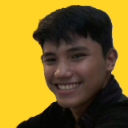
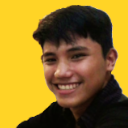
Relight portrait cutout for brighter, warmer facial lighting on yellow background

diff --git a/case-studies/clara-health.html b/case-studies/clara-health.html
@@ -11,8 +11,8 @@
     <meta property="og:description" content="From a health question to a human conversation. A patient and provider product prototype by Rechcel Toledo." />
     <meta property="og:url" content="https://phcodesage.github.io/case-studies/clara-health.html" />
     <link rel="canonical" href="https://phcodesage.github.io/case-studies/clara-health.html" />
-    <link rel="icon" type="image/png" sizes="512x512" href="../assets/favicon.png?v=20261018" />
-    <link rel="icon" type="image/png" sizes="32x32" href="../assets/favicon-32.png?v=20261018" />
+    <link rel="icon" type="image/png" sizes="512x512" href="../assets/favicon.png?v=20261018b" />
+    <link rel="icon" type="image/png" sizes="32x32" href="../assets/favicon-32.png?v=20261018b" />
     <link rel="stylesheet" href="https://fonts.googleapis.com/css2?family=DM+Sans:wght@400;500;600;700&family=Nunito:wght@600;700;800&display=swap" />
     <link rel="stylesheet" href="styles.css" />
     <script src="../site-analytics.js?v=20261012" defer></script>
@@ -21,7 +21,7 @@
   </head>
   <body data-analytics-project="clara-health">
     <div class="shell">
-      <header class="topbar"><a class="brand" href="../"><img class="brand-avatar" src="../assets/brand-avatar.png?v=20261018" alt="" width="30" height="30" /> PHCODESAGE</a><a class="back" href="../#clara-health">Back to selected work <span aria-hidden="true"><svg class="arrow-icon" data-direction="up-right" viewBox="0 0 24 24" aria-hidden="true" focusable="false"><path d="M7 17 17 7M7 7h10v10" /></svg></span></a></header>
+      <header class="topbar"><a class="brand" href="../"><img class="brand-avatar" src="../assets/brand-avatar.png?v=20261018b" alt="" width="30" height="30" /> PHCODESAGE</a><a class="back" href="../#clara-health">Back to selected work <span aria-hidden="true"><svg class="arrow-icon" data-direction="up-right" viewBox="0 0 24 24" aria-hidden="true" focusable="false"><path d="M7 17 17 7M7 7h10v10" /></svg></span></a></header>
       <main>
         <section class="hero">
           <p class="eyebrow">Clara Health / Product prototype / Patient &amp; provider workflows</p>

diff --git a/index.html b/index.html
@@ -9,9 +9,9 @@
     />
     <meta name="theme-color" content="#faf7f2" />
     <title>Rechcel Toledo — Software Developer, phcodesage</title>
-    <link rel="icon" type="image/png" sizes="512x512" href="assets/favicon.png?v=20261018" />
-    <link rel="icon" type="image/png" sizes="32x32" href="assets/favicon-32.png?v=20261018" />
-    <link rel="apple-touch-icon" href="assets/favicon.png?v=20261018" />
+    <link rel="icon" type="image/png" sizes="512x512" href="assets/favicon.png?v=20261018b" />
+    <link rel="icon" type="image/png" sizes="32x32" href="assets/favicon-32.png?v=20261018b" />
+    <link rel="apple-touch-icon" href="assets/favicon.png?v=20261018b" />
     <link rel="canonical" href="https://phcodesage.github.io/" />
     <meta property="og:type" content="website" />
     <meta property="og:title" content="Rechcel Toledo — Software Developer, phcodesage" />
@@ -81,7 +81,7 @@
       <div class="nav-bar">
         <a href="#top" class="wordmark" aria-label="phcodesage — Back to top">
           <span class="brand-mark" aria-hidden="true">
-            <img class="brand-avatar" src="assets/brand-avatar.png?v=20261018" alt="" width="34" height="34" />
+            <img class="brand-avatar" src="assets/brand-avatar.png?v=20261018b" alt="" width="34" height="34" />
           </span>
           <span class="wordmark-text">PHCODESAGE</span>
         </a>
@@ -166,7 +166,7 @@
                     <div class="hero-avatar-wrap">
                       <img
                         class="profile-photo"
-                        src="assets/favicon.png?v=20261018"
+                        src="assets/favicon.png?v=20261018b"
                         alt="Rechcel Toledo"
                         width="112"
                         height="112"
@@ -1046,7 +1046,7 @@
                 <img
                   id="testimonial-avatar"
                   class="testimonial-avatar"
-                  src="assets/favicon.png?v=20261018"
+                  src="assets/favicon.png?v=20261018b"
                   alt="Rechcel Toledo"
                   width="80"
                   height="80"

diff --git a/case-studies/tawaflick.html b/case-studies/tawaflick.html
@@ -11,8 +11,8 @@
     <meta property="og:description" content="Turning Philippine meme moments into looping GIFs and short videos, ready for the group chat." />
     <meta property="og:url" content="https://phcodesage.github.io/case-studies/tawaflick.html" />
     <link rel="canonical" href="https://phcodesage.github.io/case-studies/tawaflick.html" />
-    <link rel="icon" type="image/png" sizes="512x512" href="../assets/favicon.png?v=20261018" />
-    <link rel="icon" type="image/png" sizes="32x32" href="../assets/favicon-32.png?v=20261018" />
+    <link rel="icon" type="image/png" sizes="512x512" href="../assets/favicon.png?v=20261018b" />
+    <link rel="icon" type="image/png" sizes="32x32" href="../assets/favicon-32.png?v=20261018b" />
     <link rel="stylesheet" href="https://fonts.googleapis.com/css2?family=DM+Sans:wght@400;500;600;700&family=Nunito:wght@600;700;800&display=swap" />
     <link rel="stylesheet" href="styles.css" />
     <script src="../site-analytics.js?v=20261012" defer></script>
@@ -21,7 +21,7 @@
   </head>
   <body data-analytics-project="tawaflick">
     <div class="shell">
-      <header class="topbar"><a class="brand" href="../"><img class="brand-avatar" src="../assets/brand-avatar.png?v=20261018" alt="" width="30" height="30" /> PHCODESAGE</a><a class="back" href="../#tawaflick">Back to selected work <span aria-hidden="true"><svg class="arrow-icon" data-direction="up-right" viewBox="0 0 24 24" aria-hidden="true" focusable="false"><path d="M7 17 17 7M7 7h10v10" /></svg></span></a></header>
+      <header class="topbar"><a class="brand" href="../"><img class="brand-avatar" src="../assets/brand-avatar.png?v=20261018b" alt="" width="30" height="30" /> PHCODESAGE</a><a class="back" href="../#tawaflick">Back to selected work <span aria-hidden="true"><svg class="arrow-icon" data-direction="up-right" viewBox="0 0 24 24" aria-hidden="true" focusable="false"><path d="M7 17 17 7M7 7h10v10" /></svg></span></a></header>
       <main>
         <section class="hero">
           <p class="eyebrow">Tawaflick / Web product / Media tools</p>

diff --git a/resume.html b/resume.html
@@ -9,7 +9,7 @@
     <meta property="og:description" content="Software developer building web products, real-time systems, and developer tools." />
     <meta property="og:url" content="https://phcodesage.github.io/resume.html" />
     <link rel="canonical" href="https://phcodesage.github.io/resume.html" />
-    <link rel="icon" type="image/png" sizes="512x512" href="assets/favicon.png?v=20261018" />
+    <link rel="icon" type="image/png" sizes="512x512" href="assets/favicon.png?v=20261018b" />
     <link rel="stylesheet" href="https://fonts.googleapis.com/css2?family=Inter:wght@400;500;600;700;800&display=swap" />
     <style>
       @font-face {
